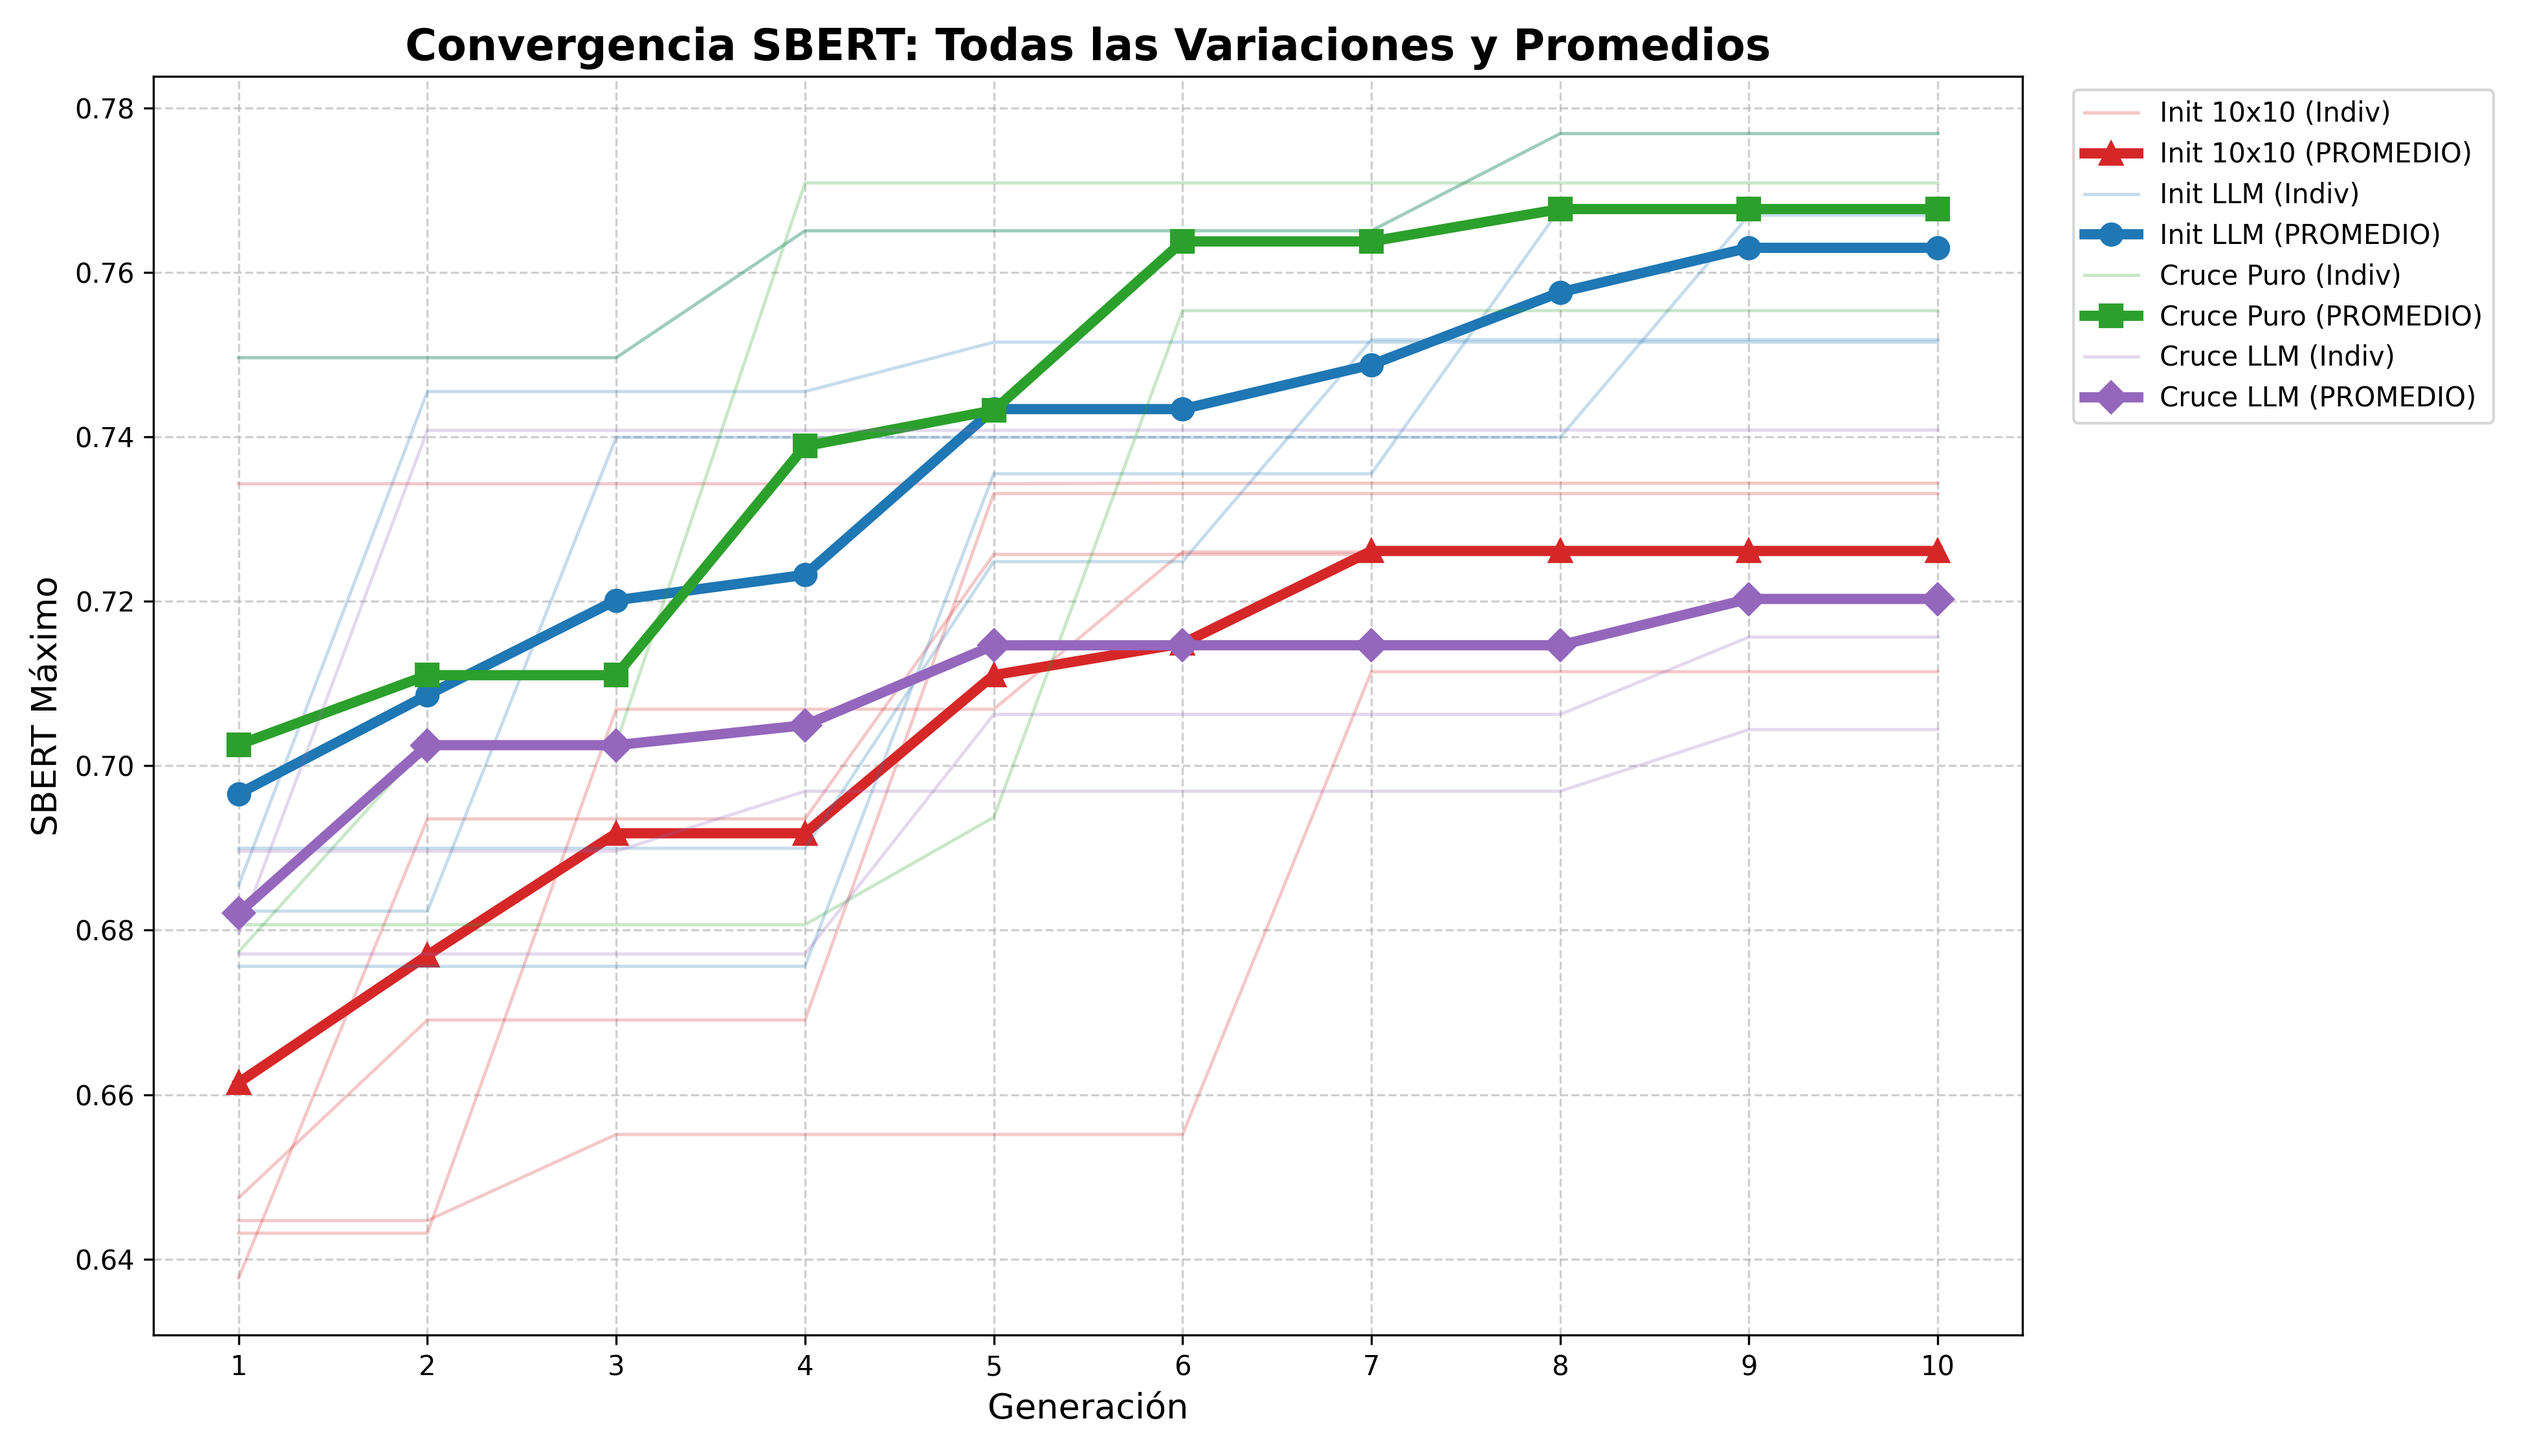
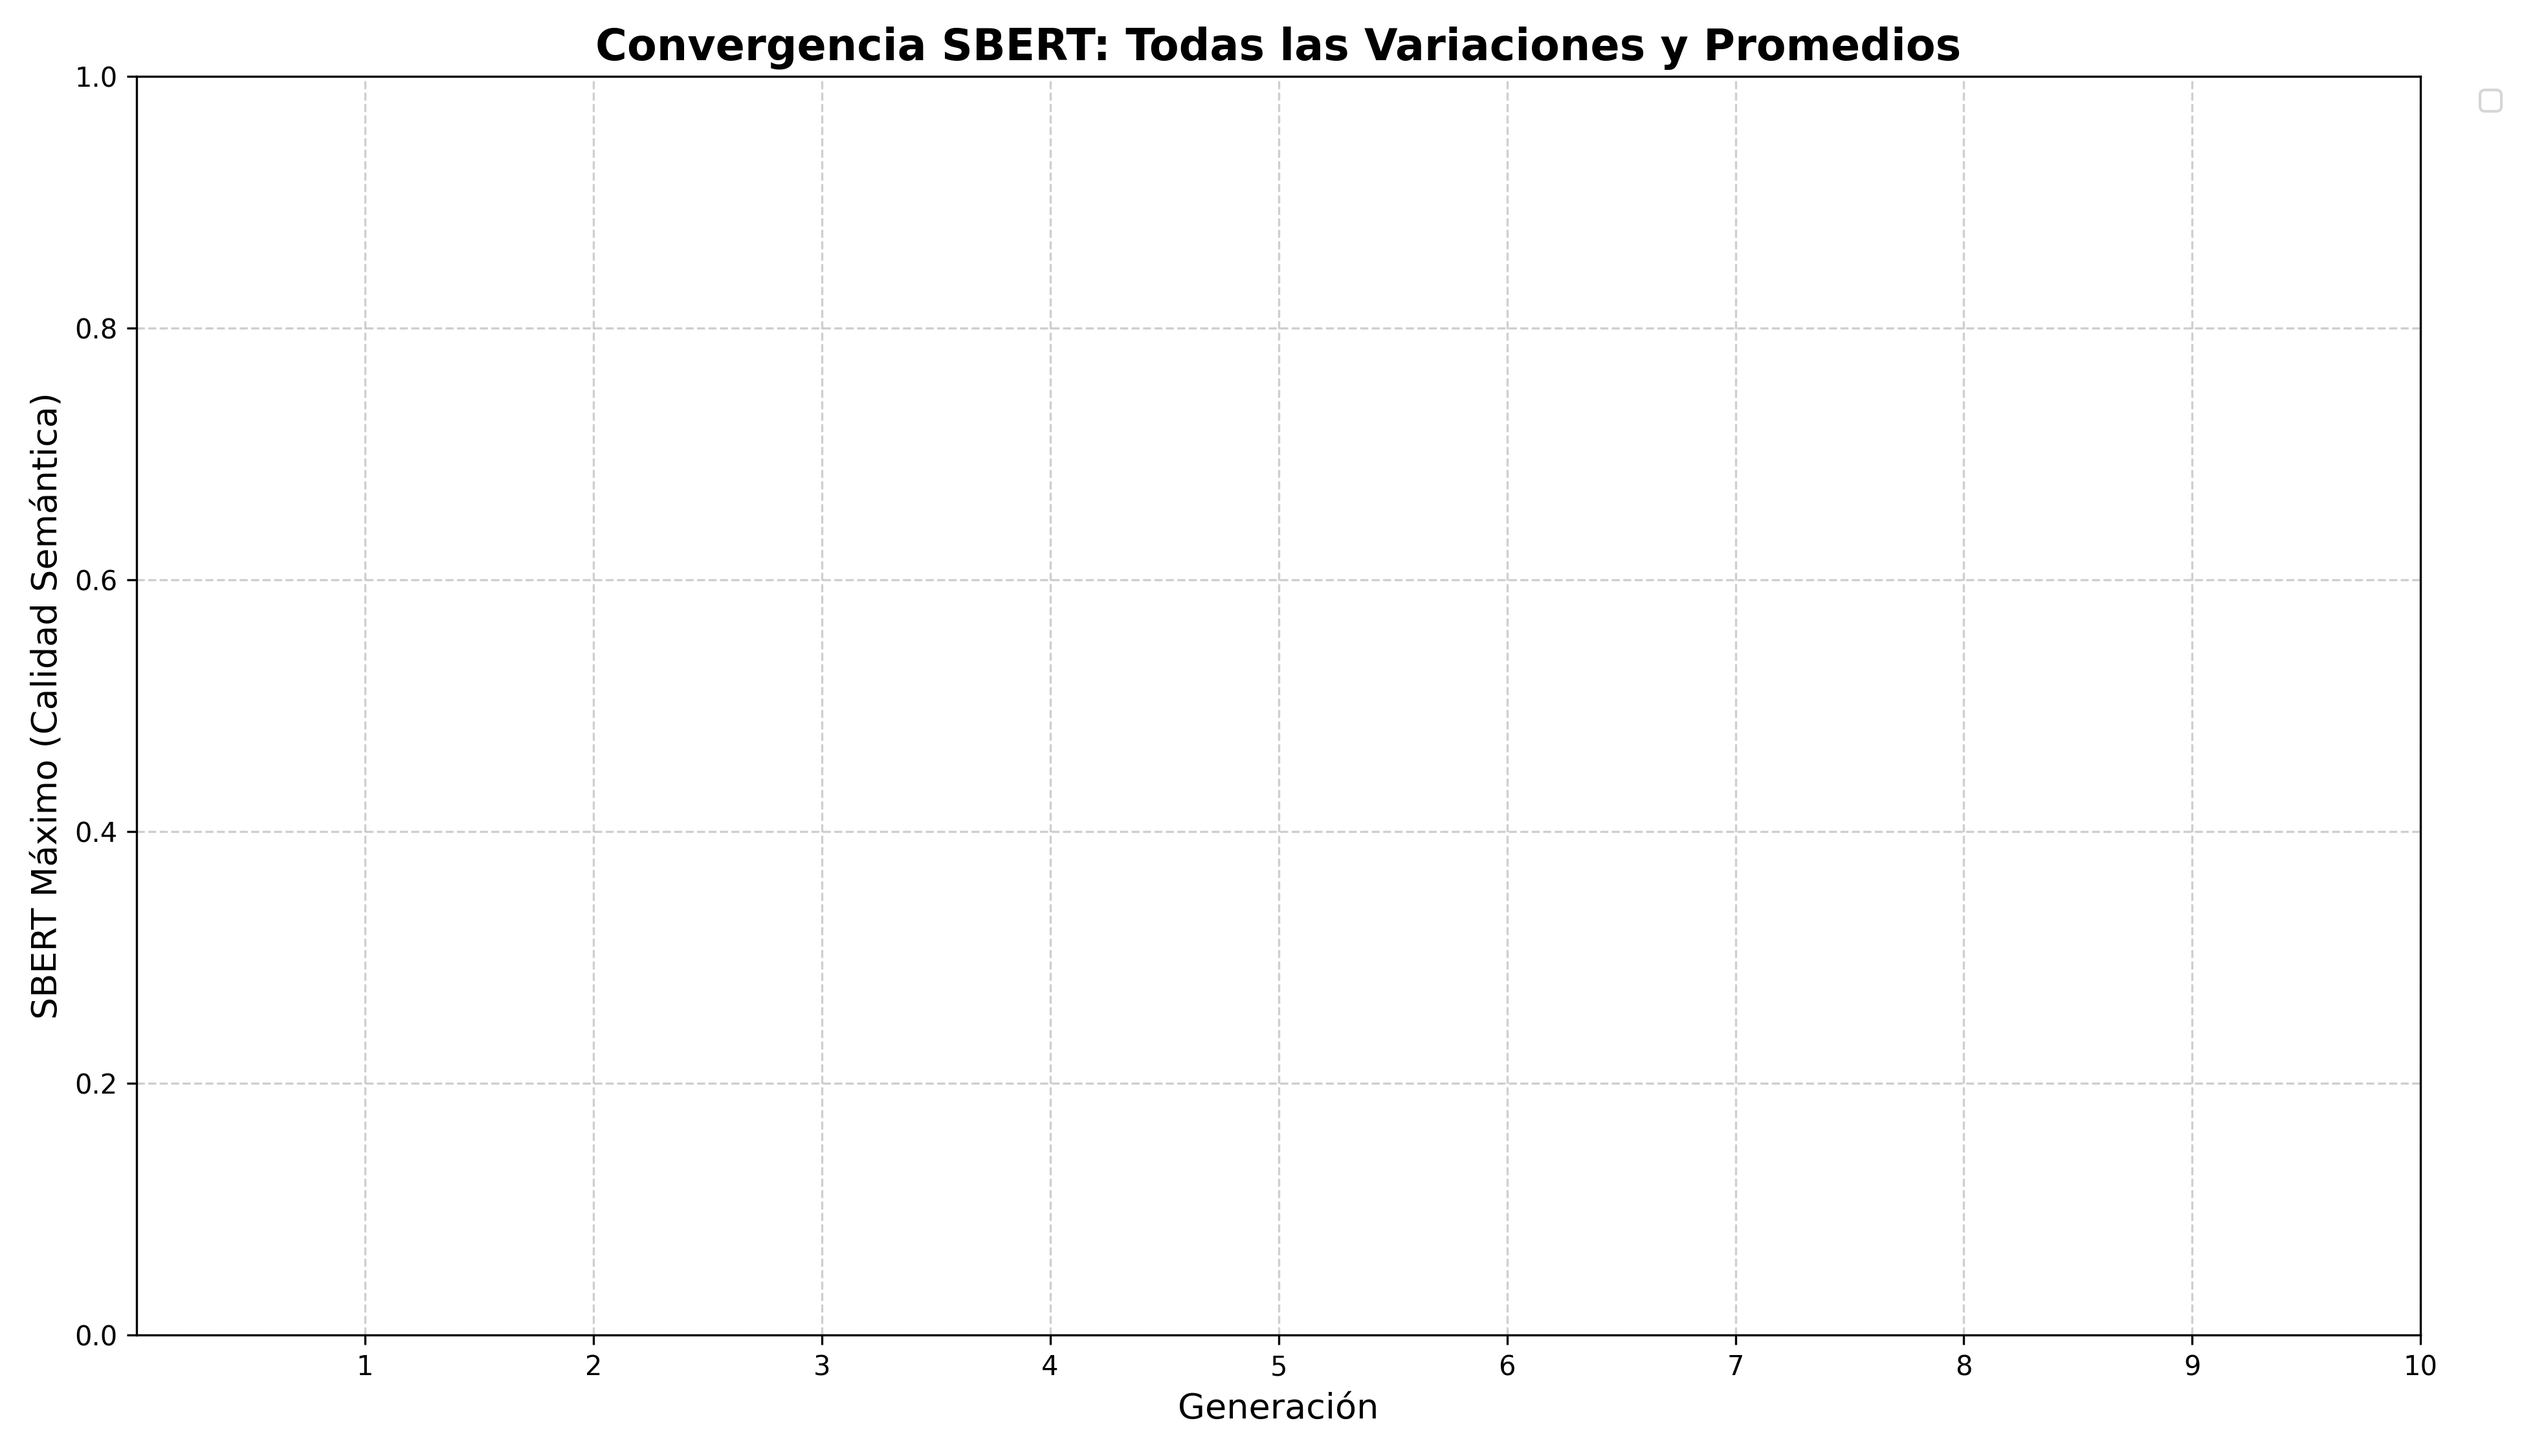
V12

diff --git a/graficador_promedios.py b/graficador_promedios.py
@@ -1,80 +1,58 @@
 import json
 import matplotlib.pyplot as plt
-import numpy as np
 import os
 
-def cargar_historiales(base_name):
-    """Busca y carga todos los JSON (original + 4 clones) de un caso específico."""
-    historiales = []
-    sufijos = ["", "_2", "_3", "_4", "_5"]
-    
-    for suf in sufijos:
-        # Busca el archivo en la misma carpeta o dentro de "Resultados/"
-        rutas_posibles = [
-            f"{base_name}{suf}.json",
-            os.path.join("Resultados", f"{base_name}{suf}.json")
-        ]
-        
-        for ruta in rutas_posibles:
-            if os.path.exists(ruta):
-                try:
-                    with open(ruta, 'r', encoding='utf-8') as f:
-                        data = json.load(f)
-                        max_sbert = [x['max_sbert'] for x in data['historial_convergencia']]
-                        historiales.append(max_sbert)
-                    break # Si lo encuentra bien, deja de buscar ese sufijo
-                except Exception as e:
-                    print(f"Error al leer {ruta}: {e}")
-                    
-    return historiales
-
-def graficar_super_completo():
-    # Definimos los 4 casos que generamos
-    casos = {
-        "Init 10x10": {"base": "resultado_init_10x10", "color": "#d62728", "marker": "^"},     # Rojo
-        "Init LLM": {"base": "resultado_init_llm", "color": "#1f77b4", "marker": "o"},         # Azul
-        "Cruce Puro": {"base": "resultado_coherencia_pura", "color": "#2ca02c", "marker": "s"},# Verde
-        "Cruce LLM": {"base": "resultado_coherencia_llm", "color": "#9467bd", "marker": "D"}   # Morado
+def graficar_data_leakage():
+    # Archivos exactos del Test A/B
+    archivos = {
+        "Validación Estándar (Con Leakage)": {
+            "ruta": "resultado_eval_estandar.json", 
+            "color": "#1f77b4", # Azul profesional
+            "marcador": "o-"
+        },
+        "Validación Cruzada (Excluyente)": {
+            "ruta": "resultado_eval_cruzada.json", 
+            "color": "#d62728", # Rojo para destacar la exclusión
+            "marcador": "s-"
+        }
     }
 
-    plt.figure(figsize=(13, 7.5))
-    generaciones = list(range(1, 11))
+    plt.figure(figsize=(10, 6))
 
-    for nombre, config in casos.items():
-        historiales = cargar_historiales(config["base"])
-        
-        if not historiales:
-            print(f"⚠ No se encontraron archivos para {nombre}")
-            continue
+    for etiqueta, config in archivos.items():
+        ruta = config["ruta"]
+        if os.path.exists(ruta):
+            try:
+                with open(ruta, 'r', encoding='utf-8') as f:
+                    data = json.load(f)
+                    # Extraemos las generaciones y la métrica exacta ("mejor_sbert")
+                    generaciones = [x['generacion'] for x in data['historial_convergencia']]
+                    mejor_sbert = [x['mejor_sbert'] for x in data['historial_convergencia']]
+                    
+                    plt.plot(generaciones, mejor_sbert, config["marcador"], color=config["color"], 
+                             label=etiqueta, linewidth=2.5, markersize=8)
+            except Exception as e:
+                print(f"Error cargando {ruta}: {e}")
+        else:
+            print(f"[Advertencia] No se encontró el archivo '{ruta}'.")
 
-        # 1. Graficamos las corridas individuales (líneas delgadas y transparentes)
-        for i, hist in enumerate(historiales):
-            # Solo le ponemos etiqueta a la primera línea individual para no reventar la leyenda
-            etiqueta = f"{nombre} (Indiv)" if i == 0 else ""
-            plt.plot(generaciones, hist, color=config["color"], alpha=0.25, linewidth=1.2, label=etiqueta)
-
-        # 2. Calculamos y graficamos el promedio (línea gordita y con marcadores)
-        if len(historiales) > 0:
-            matriz = np.array(historiales)
-            promedios = np.mean(matriz, axis=0)
-            plt.plot(generaciones, promedios, color=config["color"], alpha=1.0, linewidth=3.8, 
-                     marker=config["marker"], markersize=8, label=f"{nombre} (PROMEDIO)")
-
-    # Configuración estética
-    plt.title('Convergencia SBERT: Todas las Variaciones y Promedios', fontsize=16, fontweight='bold')
+    # Configuración visual optimizada para diapositivas
+    plt.title('Impacto del Data Leakage en la Convergencia SBERT', fontsize=15, fontweight='bold')
     plt.xlabel('Generación', fontsize=13)
-    plt.ylabel('SBERT Máximo', fontsize=13)
-    plt.xticks(generaciones)
+    plt.ylabel('SBERT Máximo (Calidad Semántica)', fontsize=13)
     
-    # Ajustamos la leyenda para que se vea ordenada y fuera del gráfico
-    plt.legend(bbox_to_anchor=(1.02, 1), loc='upper left', fontsize=10)
-    plt.grid(True, linestyle='--', alpha=0.6)
+    # Fuerzo a que el eje X muestre todas las generaciones (0 a 10)
+    plt.xticks(range(0, 11))
+    
+    plt.legend(loc="lower right", fontsize=11)
+    plt.grid(True, linestyle='--', alpha=0.7)
     plt.tight_layout()
     
-    nombre_salida = 'curva_super_completa.png'
+    nombre_salida = 'curva_data_leakage.png'
     plt.savefig(nombre_salida, dpi=300)
-    print(f"\n¡Éxito! Gráfico guardado como: {nombre_salida}")
-    plt.show()
+    print(f"¡Éxito! Gráfico del Test A/B guardado como: {nombre_salida}")
 
 if __name__ == "__main__":
-    graficar_super_completo()
+    print("=== GENERADOR DE GRÁFICO: DATA LEAKAGE ===")
+    graficar_data_leakage()
+    plt.show()

diff --git a/dataset.py b/dataset.py
@@ -10,16 +10,14 @@ class DatasetManager:
         """
         self.ruta_csv = ruta_csv
 
-    def obtener_muestra_referencia(self, n=50, semilla=None, excluir_textos=None) -> list:
+    def obtener_muestra_referencia(self, n=50, excluir_textos=None) -> list:
         """
         Carga una muestra aleatoria de 'n' textos desde el archivo CSV.
         
         Parámetros:
         - n: Cantidad de textos a extraer.
-        - semilla: Valor numérico para fijar la aleatoriedad desde la función principal.
-                   Si es None, la extracción será completamente dinámica y variable.
-        - excluir_textos: Lista de strings que NO deben seleccionarse (evita Data Leakage 
-                          en validación cruzada).
+        - excluir_textos: Lista de strings que NO deben seleccionarse (evita solapamiento 
+                          en validación cruzada excluyente).
         """
         print(f"Cargando muestra de {n} textos de referencia desde el dataset...")
         try:
@@ -30,12 +28,8 @@ class DatasetManager:
             if excluir_textos is not None:
                 textos_reales = [t for t in textos_reales if t not in excluir_textos]
             
-            # Control dinámico de reproducibilidad
-            if semilla is not None:
-                random.seed(semilla)
-            else:
-                random.seed() # Libera el generador usando el reloj del sistema
-            
+            # Como la semilla global ya se fijó en main.py, esto avanzará la secuencia
+            # sin repetir los mismos textos de la extracción anterior.
             muestra = random.sample(textos_reales, min(n, len(textos_reales)))
             muestra = [texto.strip() for texto in muestra if texto.strip()]
             
@@ -51,5 +45,5 @@ class DatasetManager:
 if __name__ == "__main__":
     # Prueba local de sanidad y funcionamiento aislado
     dm = DatasetManager()
-    test_1 = dm.obtener_muestra_referencia(n=3, semilla=42)
-    print("Muestra fija (Semilla 42):", test_1)
+    test_1 = dm.obtener_muestra_referencia(n=3)
+    print("Muestra extraída:", test_1)

diff --git a/scatter_search.py b/scatter_search.py
@@ -23,13 +23,7 @@ class ScatterSearch:
         self.b_div = self.b - self.b_elite
         self.validacion_cruzada = validacion_cruzada
         self.semilla_global = semilla_global
-        
-        # Anclar la aleatoriedad interna (cruces, shuffle) si hay una semilla
-        if self.semilla_global is not None:
-            random.seed(self.semilla_global)
-        else:
-            random.seed()
-            
+                    
         print("--- INICIALIZANDO SS-GrIPS ---")
         
         # Inyectamos los parámetros controlados a los módulos secundarios
@@ -42,24 +36,22 @@ class ScatterSearch:
         self.dataset = DatasetManager()
         
         # 1. Obtenemos los textos que usará Llama 3 para inspirarse (Fase 1)
+        # Ya NO pasamos la semilla. Usará la secuencia global establecida en main.py
         self.textos_contexto_llm = self.dataset.obtener_muestra_referencia(
-            n=self.P_size, 
-            semilla=self.semilla_global
+            n=self.P_size
         )
         
-        # 2. Obtenemos el "Gold Standard" de evaluación (SBERT)
+        # 2. Obtenemos el "Gold Standard" de evaluación (SBERT) congelado para todo el ciclo
         if self.validacion_cruzada:
             print("[Estrategia] Validación Cruzada: El Gold Standard será excluyente.")
             self.textos_referencia = self.dataset.obtener_muestra_referencia(
                 n=50, 
-                semilla=self.semilla_global, 
                 excluir_textos=self.textos_contexto_llm
             )
         else:
-            print("[Estrategia] Validación Estándar: El Gold Standard se extrae de forma independiente.")
+            print("[Estrategia] Validación Estándar: El Gold Standard permite solapamiento.")
             self.textos_referencia = self.dataset.obtener_muestra_referencia(
-                n=50, 
-                semilla=self.semilla_global
+                n=50
             )
 
     def generar_poblacion_inicial(self) -> list:

diff --git a/main.py b/main.py
@@ -1,6 +1,7 @@
 import json
 import time
 import copy
+import random
 from scatter_search import ScatterSearch
 from grips import ModuloGrIPS
 
@@ -15,6 +16,14 @@ def ejecutar_experimento(
     max_tokens_salida=150,
     semilla_global=None
 ):
+    # ==========================================
+    # ANCLAJE DE ALEATORIEDAD MAESTRA
+    # ==========================================
+    if semilla_global is not None:
+        random.seed(semilla_global)
+    else:
+        random.seed()
+
     print(f"==================================================")
     print(f" INICIANDO EXPERIMENTO SCATTER SEARCH (GrIPS) ")
     print(f" Config: {generaciones} Gen | Pob: {tamano_poblacion} | RefSet: {tamano_refset}")
